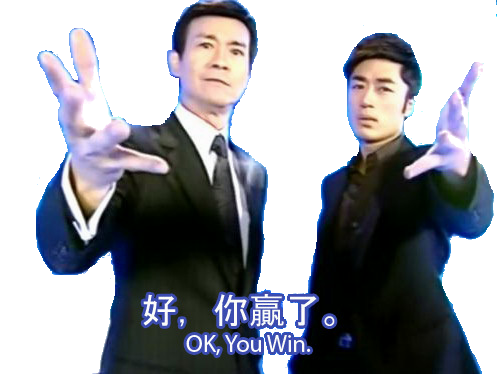
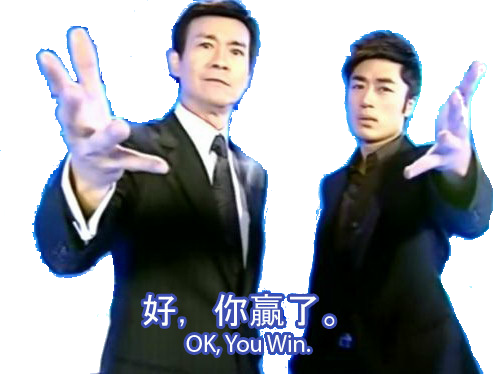
win

diff --git a/core/src/com/PDA/game/WinScreen.java b/core/src/com/PDA/game/WinScreen.java
@@ -1,0 +1,98 @@
+package com.PDA.game;
+
+import com.badlogic.gdx.Gdx;
+import com.badlogic.gdx.Screen;
+import com.badlogic.gdx.graphics.GL20;
+import com.badlogic.gdx.graphics.OrthographicCamera;
+import com.badlogic.gdx.graphics.g2d.SpriteBatch;
+import com.badlogic.gdx.math.Rectangle;
+import com.badlogic.gdx.math.Vector3;
+
+public class WinScreen implements Screen{
+	MyPDAGame game;	
+	Rectangle backBounds;
+	Vector3 touchPoint;	
+	OrthographicCamera guiCam;
+	SpriteBatch batcher;
+	
+	public WinScreen(MyPDAGame game) {
+		this.game = game;
+		guiCam = new OrthographicCamera(1280, 960);
+		guiCam.position.set(1280 / 2, 960 / 2, 0);
+		batcher = new SpriteBatch();
+		backBounds = new Rectangle(0, 0, 64, 64);
+		touchPoint = new Vector3();		
+	}
+	
+	public void update () 
+	{
+		if (Gdx.input.justTouched()) {
+			guiCam.unproject(touchPoint.set(Gdx.input.getX(), Gdx.input.getY(), 0));
+
+			if (backBounds.contains(touchPoint.x, touchPoint.y)) {
+				Assets.playSound(Assets.clickSound);
+				game.setScreen(new MainScreen(game));
+				return;
+			}
+		}
+	}	
+	
+	public void draw(float delta) {
+		GL20 gl = Gdx.gl;
+		gl.glClear(GL20.GL_COLOR_BUFFER_BIT);
+		guiCam.update();
+
+		batcher.setProjectionMatrix(guiCam.combined);
+		batcher.disableBlending();
+		
+		batcher.begin();
+		batcher.draw(Assets.backgroundRegion, 0, 0, 1280, 960);
+		batcher.draw(Assets.winRegion, 140, 80, 1000, 800);
+		batcher.draw(Assets.back, 0, 0, 64, 64);		
+		batcher.end();
+	}
+	
+	@Override
+	public void render(float delta) {
+		// TODO Auto-generated method stub
+		draw(delta);
+		update();
+	}
+
+	@Override
+	public void resize(int width, int height) {
+		// TODO Auto-generated method stub
+		
+	}
+
+	@Override
+	public void show() {
+		// TODO Auto-generated method stub
+		
+	}
+
+	@Override
+	public void hide() {
+		// TODO Auto-generated method stub
+		
+	}
+
+	@Override
+	public void pause() {
+		// TODO Auto-generated method stub
+		
+	}
+
+	@Override
+	public void resume() {
+		// TODO Auto-generated method stub
+		
+	}
+
+	@Override
+	public void dispose() {
+		// TODO Auto-generated method stub
+		
+	}
+	;
+}

diff --git a/core/src/com/PDA/game/Assets.java b/core/src/com/PDA/game/Assets.java
@@ -9,6 +9,8 @@ import com.badlogic.gdx.graphics.g2d.BitmapFont;
 import com.badlogic.gdx.graphics.g2d.TextureRegion;
 
 public class Assets {
+	public static Texture win;
+	public static TextureRegion winRegion;
 	public static Texture background;
 	public static TextureRegion backgroundRegion;
 
@@ -150,6 +152,8 @@ public class Assets {
 	}
 
 	public static void load () {
+		win = loadTexture("data/win.png");
+		winRegion = new TextureRegion(win);		
 		background = loadTexture("data/background.jpg");
 		backgroundRegion = new TextureRegion(background);
 		

diff --git a/core/src/com/PDA/game/MainScreen.java b/core/src/com/PDA/game/MainScreen.java
@@ -49,7 +49,7 @@ public class MainScreen implements Screen {
 			}
 			if (highscoresBounds.contains(touchPoint.x, touchPoint.y)) {
 				Assets.playSound(Assets.clickSound);
-				game.setScreen(new HighscoresScreen(game));
+				game.setScreen(new WinScreen(game));
 				return;
 			}
 			if (helpBounds.contains(touchPoint.x, touchPoint.y)) {
